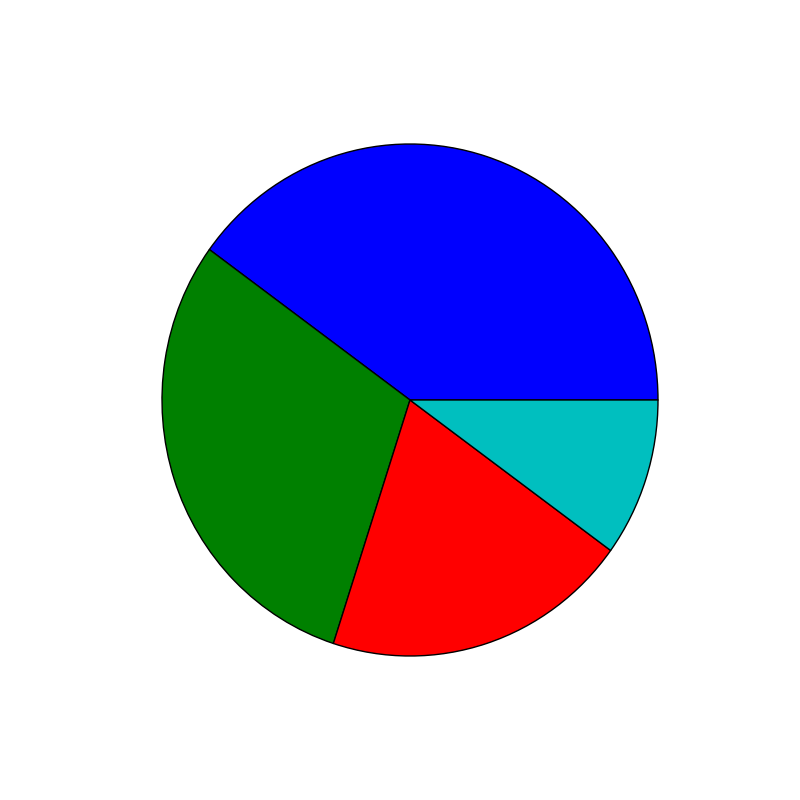
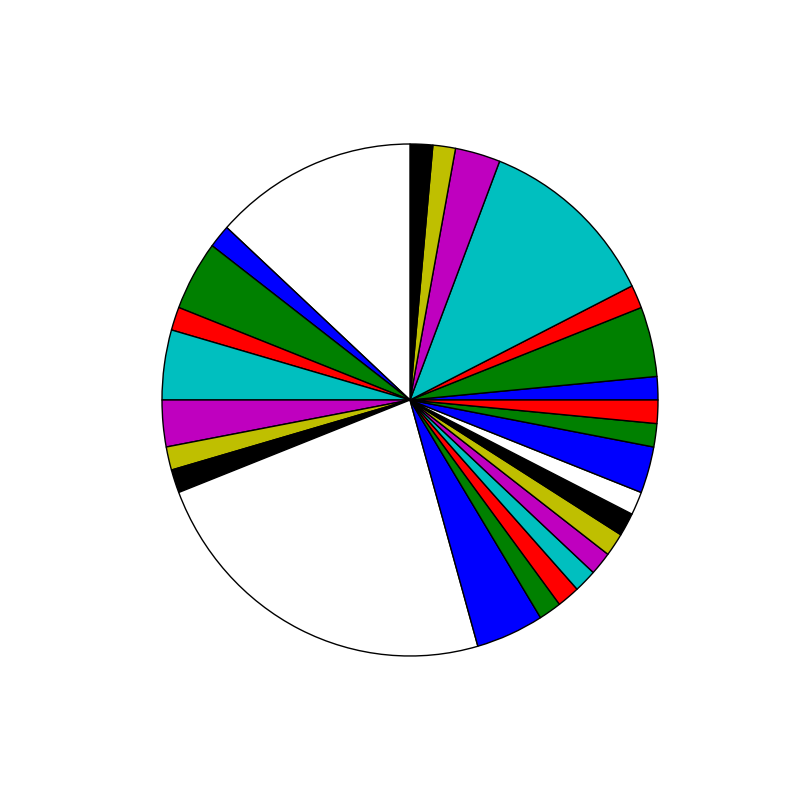
nico.py 実行結果を画像に出力するテスト3

Changed region(s): [[0.1875, 0.1562, 0.8438, 0.8438]]

diff --git a/nico.py b/nico.py
@@ -147,36 +147,34 @@ def get_comment_where_nearly_vpos(connection, cursor, tablename, vpos, offset):
 
 if __name__ == "__main__":
 
-	# mecab = MeCab.Tagger();
-	# connection, cursor = db_connection("nico", "root", "admin");	
-	# result = get_comment_where_nearly_vpos(connection, cursor, "sm19240845", 24100, 5000);
+	mecab = MeCab.Tagger();
+	connection, cursor = db_connection("nico", "root", "admin");	
+	result = get_comment_where_nearly_vpos(connection, cursor, "sm19240845", 24100, 5000);
 
-	# word = {};
- 	# for comment in result:
-	# 	data = [];
-	# 	data.append(comment[1])
-	# 	node = mecab.parseToNode("\n".join(data))
-	# 	while node:
-	# 		posid = node.posid;
-	# 		surface = node.surface;
-	# 		if posid==10 or posid==11 or posid==12:
-	# 			if not word.has_key(surface):
-	# 				word[surface] = 1;
-	# 			else:
-	# 				word[surface] += 1;
-	# 			
-	# 		node = node.next;
-	# 
-	# for w, c in sorted(word.items(), key=lambda x:x[1]):
-	# 	print w;
-	# 	print c;
+	word = {};
+ 	for comment in result:
+		data = [];
+		data.append(comment[1])
+		node = mecab.parseToNode("\n".join(data))
+		while node:
+			posid = node.posid;
+			surface = node.surface;
+			if posid==10 or posid==11 or posid==12:
+				if not word.has_key(surface):
+					word[surface] = 1;
+				else:
+					word[surface] += 1;
+				
+			node = node.next;
+	
+	for w, c in sorted(word.items(), key=lambda x:x[1]):
+		print w;
+		print c;
 
 	
-	# matplotlib.pyplot.plot(word);
-	# matplotlib.pyplot.savefig('word.png');
         fig = matplotlib.pyplot.figure(figsize=(8,8));
         ax = fig.add_subplot(111)
-        ax.pie([4, 3, 2, 1])
+        ax.pie(word.values())
         matplotlib.pyplot.savefig("curcle.png")
 
- 	# db_disconnection(connection, cursor);
+ 	db_disconnection(connection, cursor);
